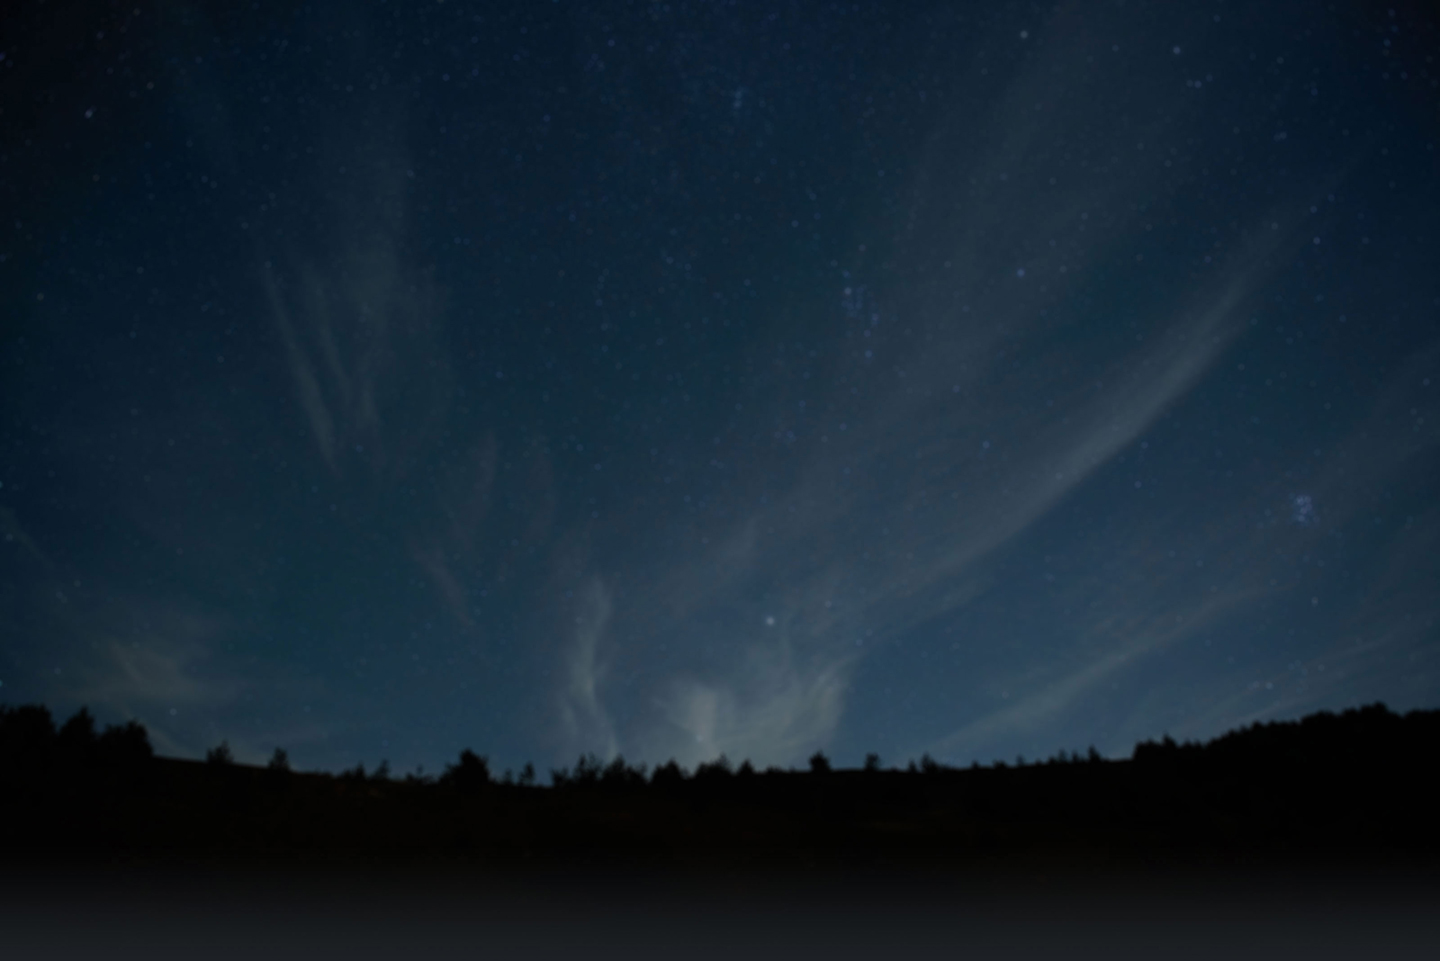
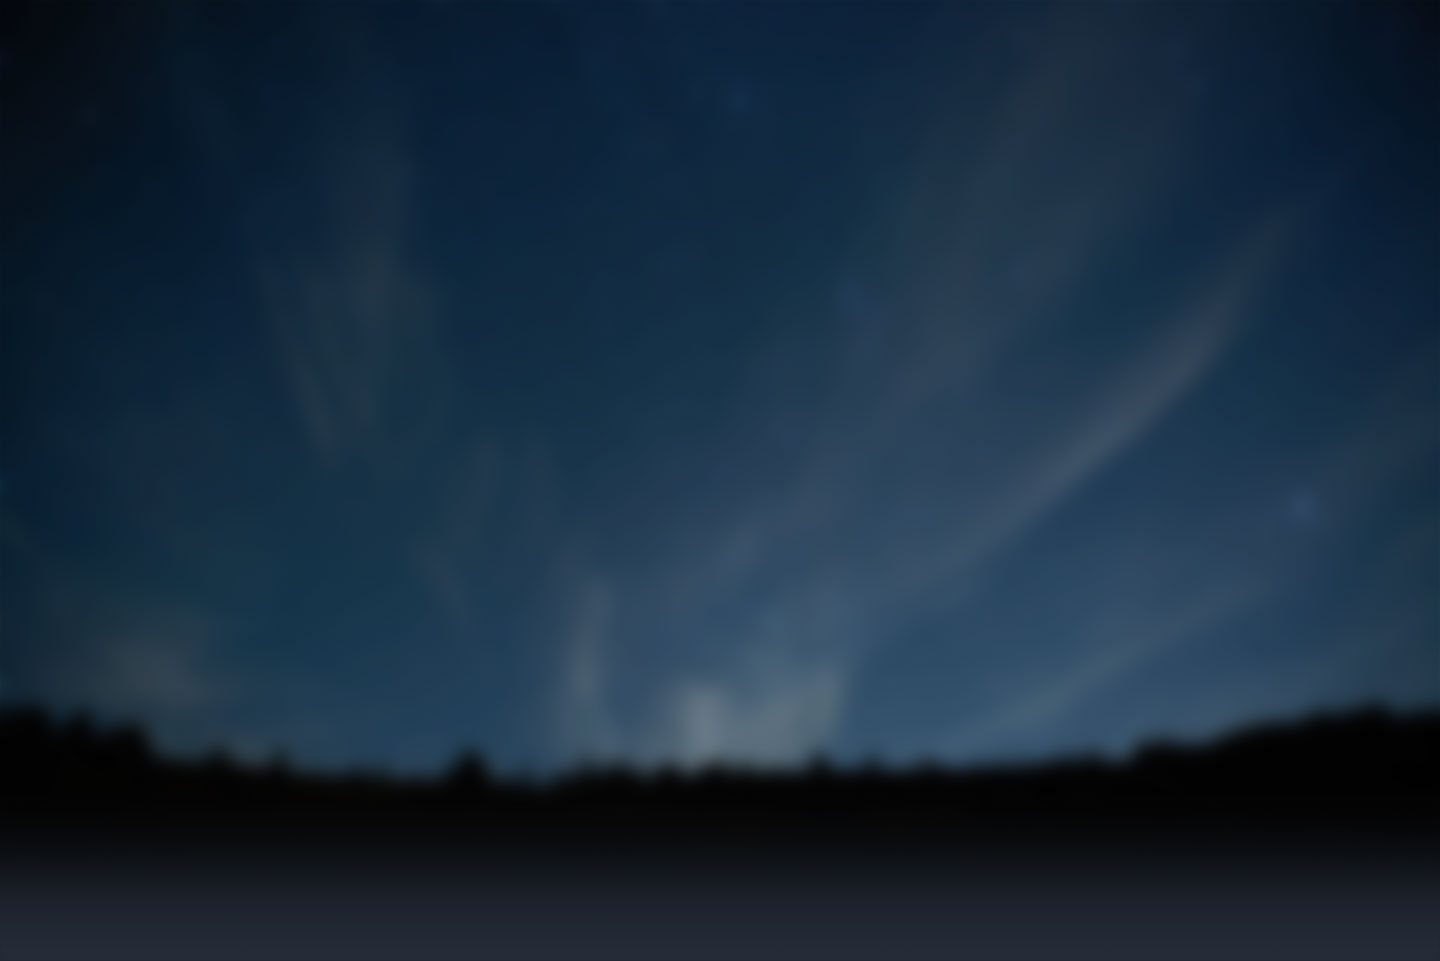
Fix background for large monitors, better blurred version.

diff --git a/app/assets/stylesheets/views/layout.scss b/app/assets/stylesheets/views/layout.scss
@@ -51,10 +51,11 @@ main {
 
   article {
     position: relative;
+    margin-bottom: 1.5em;
     padding: 1.5% 2.5%;
     border-radius: 1em;
     @include scaled-background('-blurred');
-    background-color: #1d2025;
+    background-color: #242B37;
     box-shadow:
       0px 0px 20px -5px #020e11,
       inset 0px 2px 0px -1px rgba($off-white, 0.15),
@@ -62,6 +63,9 @@ main {
     font-size: 16px;
     color: $off-white;
     letter-spacing: 1px;
+    &.comments {
+      background: #242B37;
+    }
 
     p {
       padding-top: 10px;

diff --git a/app/assets/stylesheets/globals/helpers.scss b/app/assets/stylesheets/globals/helpers.scss
@@ -33,6 +33,7 @@
   background-color: #101316;
   background-repeat: no-repeat;
   background-position: center top;
+  background-size: 100%;
   @include media(new-breakpoint(min-width 2561px)) { background-image: url(asset-path("background/3200#{$tag}.jpg")); }
   @include media(new-breakpoint(min-width 1441px max-width 2560px)) { background-image: url(asset-path("background/2560#{$tag}.jpg")); }
   @include media(new-breakpoint(min-width 801px max-width 1440px)) { background-image: url(asset-path("background/1440#{$tag}.jpg")); }
